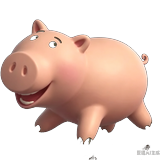
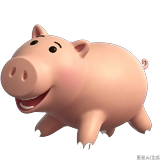
fix: use border flood-fill BFS to remove ham background, preserving eyes and hooves
Made-with: Cursor

diff --git a/process_ham.py b/process_ham.py
@@ -18,37 +18,57 @@ os.makedirs(PROC_DIR, exist_ok=True)
 
 # ── 工具函数 ─────────────────────────────────────────────────────────────────
 
-def load_remove_black(path, black_thresh=60, feather=50):
+def load_remove_black(path, dark_thresh=60, feather=40):
     """
-    读取图片，去掉黑色/近黑背景，返回 RGBA Image。
-    采用双重判断：
-      1. 亮度低于阈值 → 透明（去掉纯黑背景和暗色阴影）
-      2. 饱和度高且较暗的像素（彩色暗部，如蹄子）→ 保留
+    从图片边缘做 BFS 洪泛填充，只去掉与边缘相连的黑色背景。
+    眼睛、蹄子等内部深色部分因为孤立而被完整保留。
     """
+    from collections import deque
+
     img = Image.open(path).convert("RGBA")
-    arr = np.array(img, dtype=np.float32)
+    arr = np.array(img, dtype=np.uint8)
+    h, w = arr.shape[:2]
 
-    r, g, b, a = arr[..., 0], arr[..., 1], arr[..., 2], arr[..., 3]
+    # 亮度图（最亮通道）
+    brightness = arr[..., :3].max(axis=2).astype(np.int32)
 
-    # 亮度 = 最亮通道
-    brightness = np.maximum(np.maximum(r, g), b)
-    # 色彩范围（高 = 有颜色，低 = 灰/黑）
-    chroma = brightness - np.minimum(np.minimum(r, g), b)
+    # "暗像素"掩码：亮度 < dark_thresh + feather（用于 BFS 邻居扩展）
+    dark_mask = brightness < (dark_thresh + feather)
 
-    # 基础亮度透明度
-    alpha_bright = np.clip((brightness - black_thresh) / feather * 255, 0, 255)
+    # BFS：从四条边界上所有暗像素出发，找到所有与背景相连的暗区域
+    visited = np.zeros((h, w), dtype=bool)
+    queue = deque()
 
-    # 对于有色彩的暗部（色差>20，说明是彩色物体，不是纯黑背景），降低透明度阈值保留细节
-    colorful_mask = chroma > 20
-    alpha_colorful = np.clip((brightness - 20) / 30 * 255, 0, 255)
+    for x in range(w):
+        for y in [0, h - 1]:
+            if dark_mask[y, x] and not visited[y, x]:
+                visited[y, x] = True
+                queue.append((y, x))
+    for y in range(h):
+        for x in [0, w - 1]:
+            if dark_mask[y, x] and not visited[y, x]:
+                visited[y, x] = True
+                queue.append((y, x))
 
-    new_alpha = np.where(colorful_mask, np.maximum(alpha_bright, alpha_colorful), alpha_bright)
-    new_alpha = np.clip(new_alpha, 0, 255)
-    new_alpha = (new_alpha * (a / 255.0)).astype(np.uint8)
+    while queue:
+        cy, cx = queue.popleft()
+        for dy, dx in [(-1,0),(1,0),(0,-1),(0,1)]:
+            ny, nx = cy + dy, cx + dx
+            if 0 <= ny < h and 0 <= nx < w and not visited[ny, nx] and dark_mask[ny, nx]:
+                visited[ny, nx] = True
+                queue.append((ny, nx))
 
+    # visited == True 的像素是背景，根据亮度做平滑透明过渡
     result = arr.copy()
-    result[..., 3] = new_alpha
-    return Image.fromarray(result.astype(np.uint8), "RGBA")
+    bg = visited  # shape (h, w)
+
+    # 背景区域：按亮度做 feather 渐变（亮度越高越不透明，模拟边缘羽化）
+    bg_alpha = np.clip((brightness - dark_thresh) / feather * 255, 0, 255).astype(np.uint8)
+    # 非背景区域保持原透明度
+    new_alpha = np.where(bg, bg_alpha, arr[..., 3])
+    result[..., 3] = new_alpha.astype(np.uint8)
+
+    return Image.fromarray(result, "RGBA")
 
 
 def fit_into_canvas(img_rgba, canvas_w, canvas_h, align="center_bottom"):
